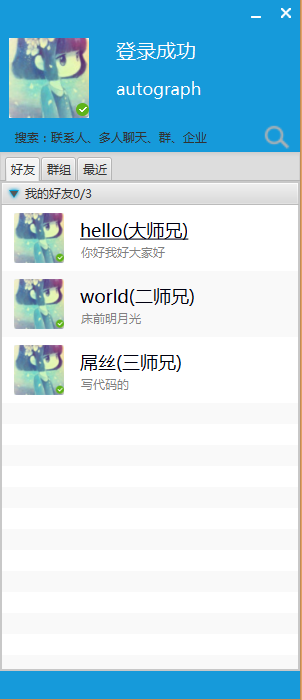
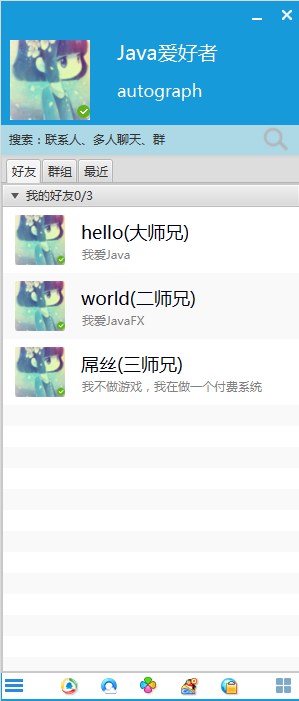
美化主界面

diff --git a/src/main/java/com/kingston/net/PacketManager.java b/src/main/java/com/kingston/net/PacketManager.java
@@ -27,19 +27,16 @@ public enum PacketManager {
 		}
 	}
 
-	public  AbstractPacket createNewPacket(int packetType){
+	public AbstractPacket createNewPacket(int packetType) {
 		Class<? extends AbstractPacket> packetClass = PacketType.getPacketClassBy(packetType);
-		if(packetClass == null){
-			throw new IllegalPacketException("类型为"+packetType+"的包定义不存在");
-		}
-		if (packetType!=0x2001){
-			System.err.println("sdf");
+		if (packetClass == null) {
+			throw new IllegalPacketException("类型为"+packetType+"的消息定义不存在");
 		}
 		AbstractPacket packet = null;
 		try {
 			packet = (AbstractPacket)packetClass.newInstance();
 		} catch (InstantiationException | IllegalAccessException e) {
-			throw new IllegalPacketException("类型为"+packetType+"的包实例化失败");
+			throw new IllegalPacketException("类型为"+packetType+"的消息实例化失败");
 		}
 
 		return packet;

diff --git a/src/main/java/com/kingston/logic/chat/message/resp/ResChatToGroupPacket.java b/src/main/java/com/kingston/logic/chat/message/resp/ResChatToGroupPacket.java
@@ -1,0 +1,42 @@
+package com.kingston.logic.chat.message.resp;
+
+import com.kingston.net.IoSession;
+import com.kingston.net.message.AbstractPacket;
+import com.kingston.net.message.PacketType;
+
+import io.netty.buffer.ByteBuf;
+
+public class ResChatToGroupPacket extends AbstractPacket {
+
+	private String content;
+
+	@Override
+	public void writeBody(ByteBuf buf) {
+		// TODO Auto-generated method stub
+
+	}
+
+	@Override
+	public void readBody(ByteBuf buf) {
+		// TODO Auto-generated method stub
+
+	}
+
+	@Override
+	public PacketType getPacketType() {
+		return PacketType.ResChatToUser;
+	}
+
+	@Override
+	public void execPacket() {
+	}
+
+	public String getContent() {
+		return content;
+	}
+
+	public void setContent(String content) {
+		this.content = content;
+	}
+
+}

diff --git a/src/main/java/com/kingston/logic/login/LoginManager.java b/src/main/java/com/kingston/logic/login/LoginManager.java
@@ -37,7 +37,7 @@ public class LoginManager {
 			ClientBaseService.INSTANCE.runTaskInFxThread(() -> {
 				enterMainPanel(resp.getAlertMsg());
 			});
-			
+
 			registerHeartTimer();
 		}else {
 			ClientBaseService.INSTANCE.runTaskInFxThread(() -> {
@@ -50,16 +50,16 @@ public class LoginManager {
 			});
 		}
 	}
-	
+
 	private void enterMainPanel(String nickName) {
 		StageController stageController = ClientBaseService.INSTANCE.getStageController();
 		stageController.switchStage(R.id.MainView, R.id.LoginView);
 
 		Stage stage = stageController.getStageBy(R.id.MainView);
 		Label userNameUi = (Label)stage.getScene().getRoot().lookup("#username");
-		userNameUi.setText(nickName);
+		userNameUi.setText("Java爱好者");
 	}
-	
+
 	/**
 	 * 注册心跳事件
 	 */

diff --git a/src/main/java/com/kingston/net/message/PacketType.java b/src/main/java/com/kingston/net/message/PacketType.java
@@ -7,6 +7,7 @@ import java.util.Set;
 
 import com.kingston.logic.chat.message.req.ReqChatToGroupPacket;
 import com.kingston.logic.chat.message.req.ReqChatToUserPacket;
+import com.kingston.logic.chat.message.resp.ResChatToGroupPacket;
 import com.kingston.logic.chat.message.resp.ResChatToUserPacket;
 import com.kingston.logic.friend.message.ResFriendListPacket;
 import com.kingston.logic.login.message.ReqHeartBeatPacket;
@@ -52,7 +53,7 @@ public enum PacketType {
 	/** 推送--单聊 */
 	ResChatToUser(4_200, ResChatToUserPacket.class),
 	/** 推送--群聊 */
-	ResChatToGroup(4_201, ReqChatToGroupPacket.class),
+	ResChatToGroup(4_201, ResChatToGroupPacket.class),
 
 	/** 推送--好友列表 */
 	ResFriendList(5_200, ResFriendListPacket.class),

diff --git a/src/main/java/com/kingston/ClientStartup.java b/src/main/java/com/kingston/ClientStartup.java
@@ -3,6 +3,7 @@ package com.kingston;
 import java.io.IOException;
 
 import com.kingston.base.ClientBaseService;
+import com.kingston.net.message.PacketType;
 import com.kingston.net.transport.SocketClient;
 import com.kingston.ui.R;
 import com.kingston.ui.StageController;
@@ -15,7 +16,7 @@ public class ClientStartup extends Application {
 
 	@Override
 	public void init() throws Exception {
-
+		PacketType.initPackets();
 	}
 
 	@Override

diff --git a/src/main/java/com/kingston/logic/friend/FriendManager.java b/src/main/java/com/kingston/logic/friend/FriendManager.java
@@ -47,10 +47,8 @@ public class FriendManager {
 	private void decorateFriendItem(Pane itemUi, FriendItemVo friendVo) {
 		Label autographLabel = (Label) itemUi.lookup("#signature");
 		autographLabel.setText(friendVo.getSignature());
-		System.out.println("-------------"+friendVo.getSignature());
 		Hyperlink _username_ = (Hyperlink) itemUi.lookup("#userName");
 		_username_.setText(friendVo.getFullName());
 	}
-
 
 }
